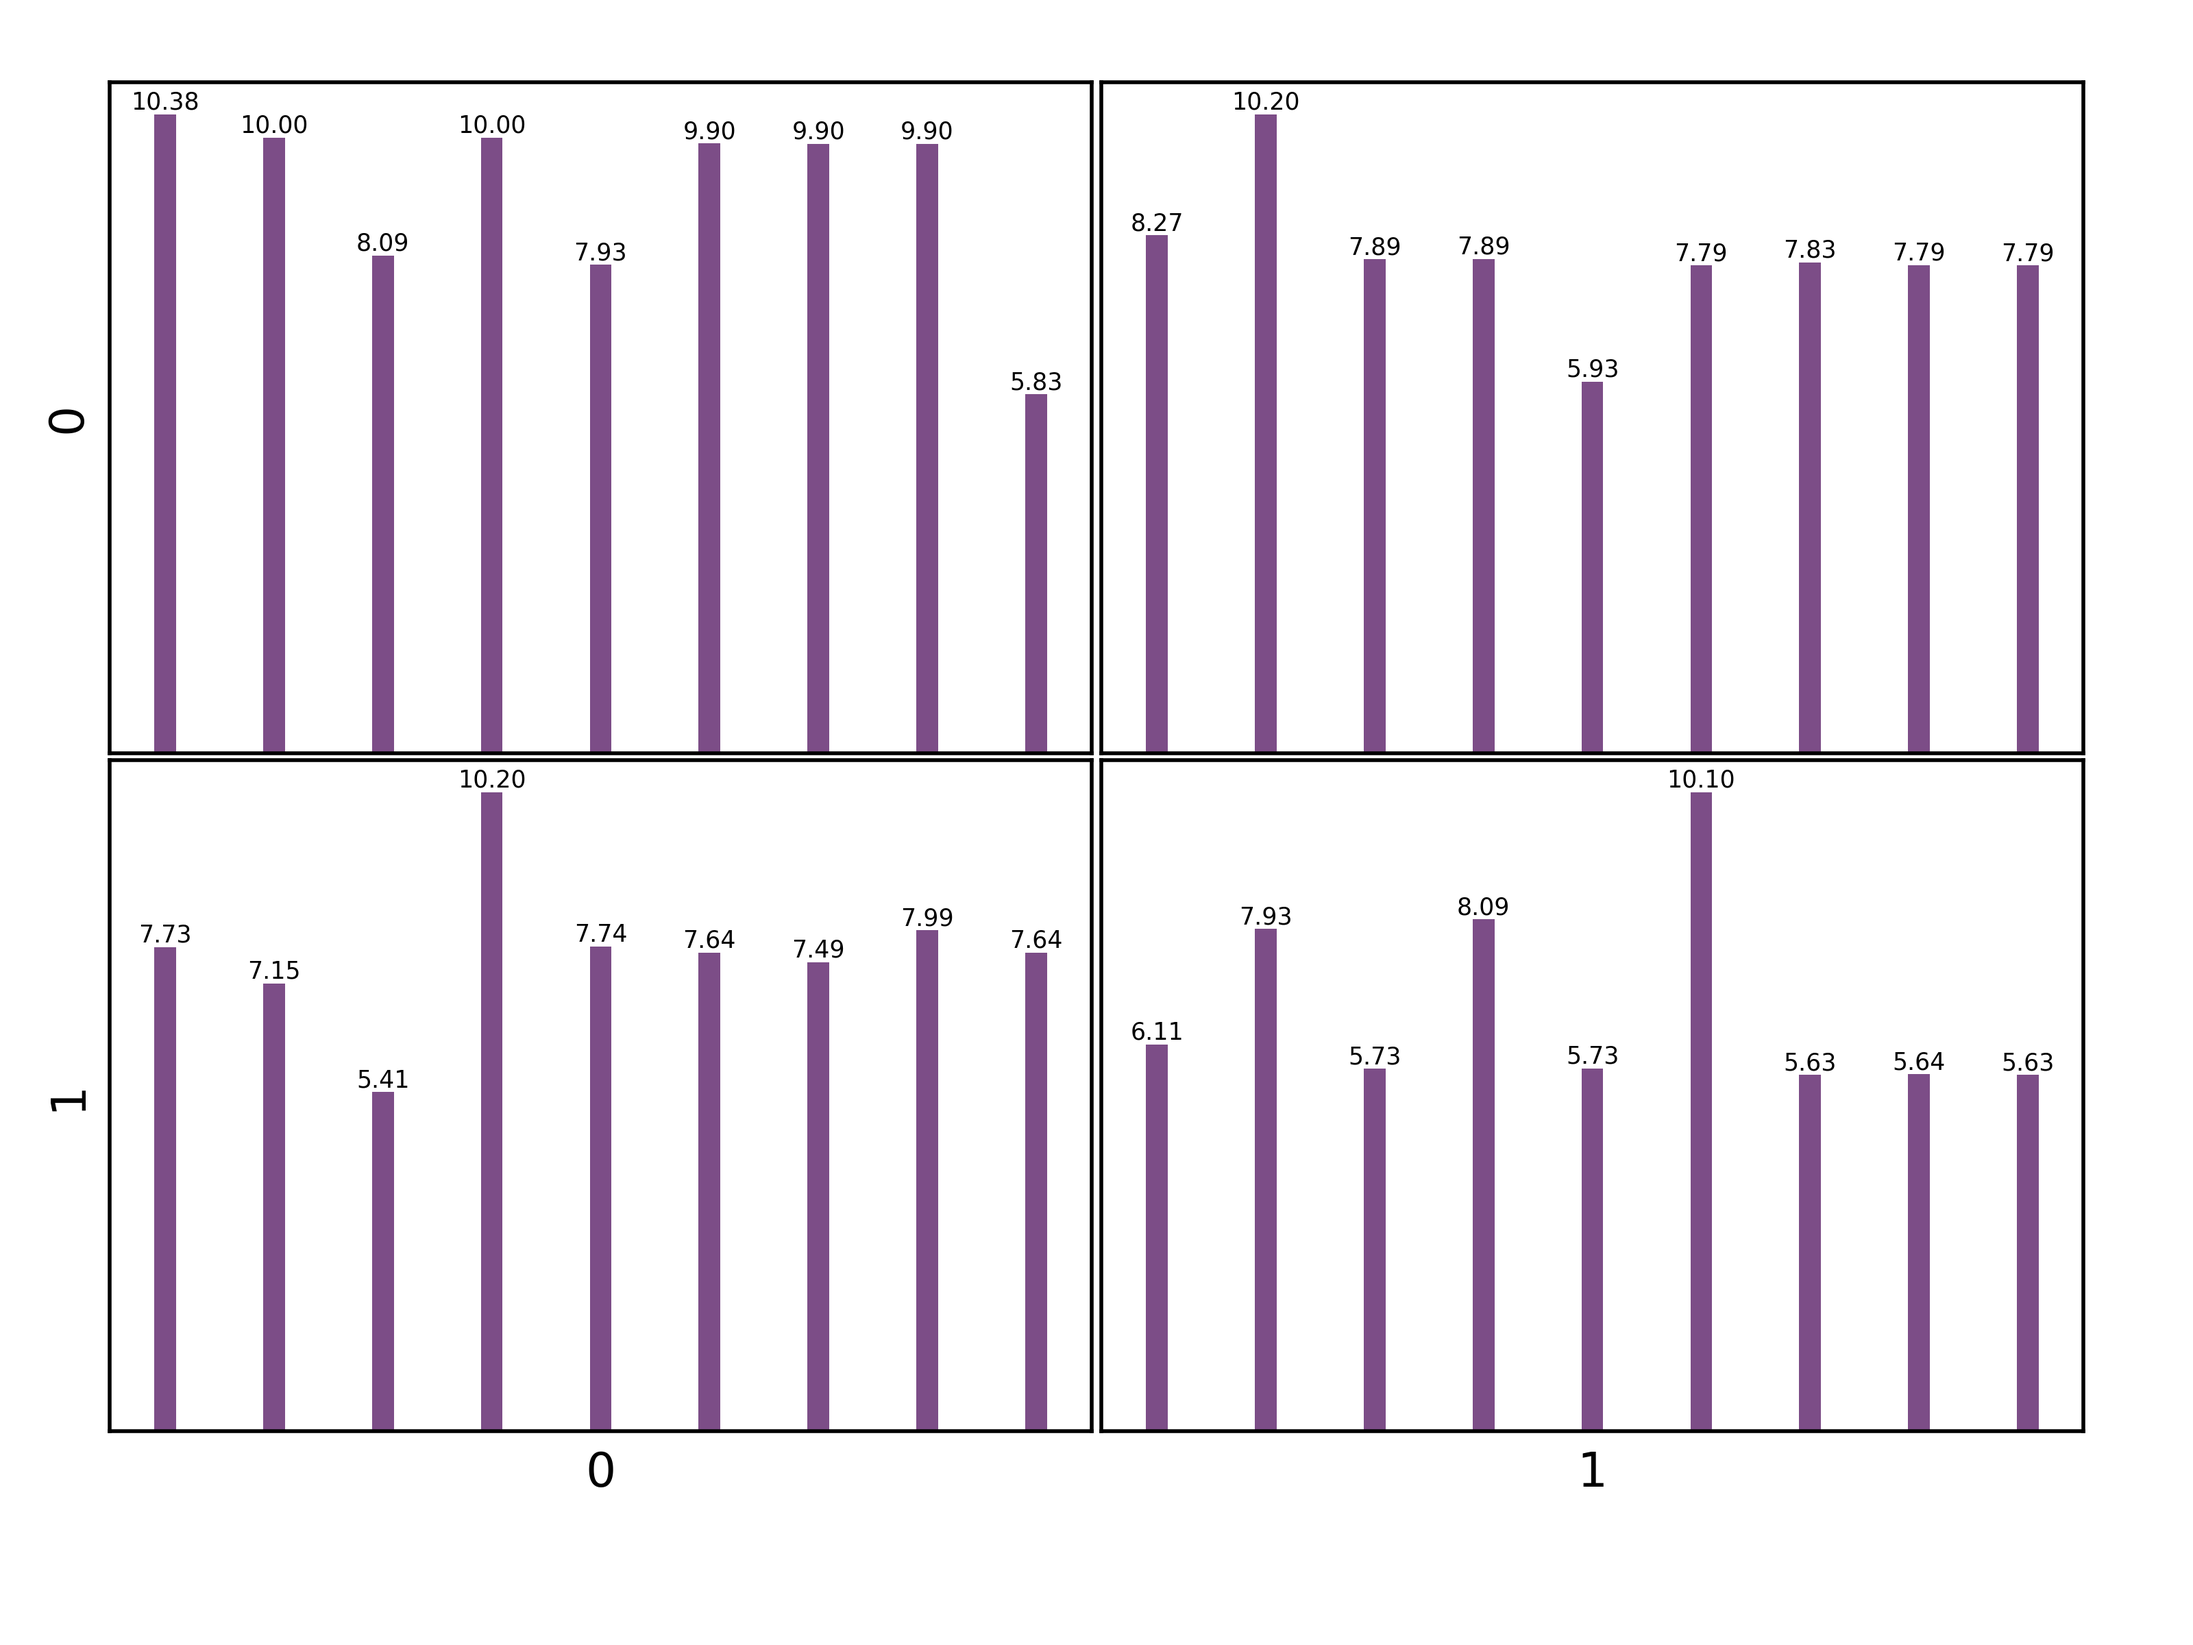
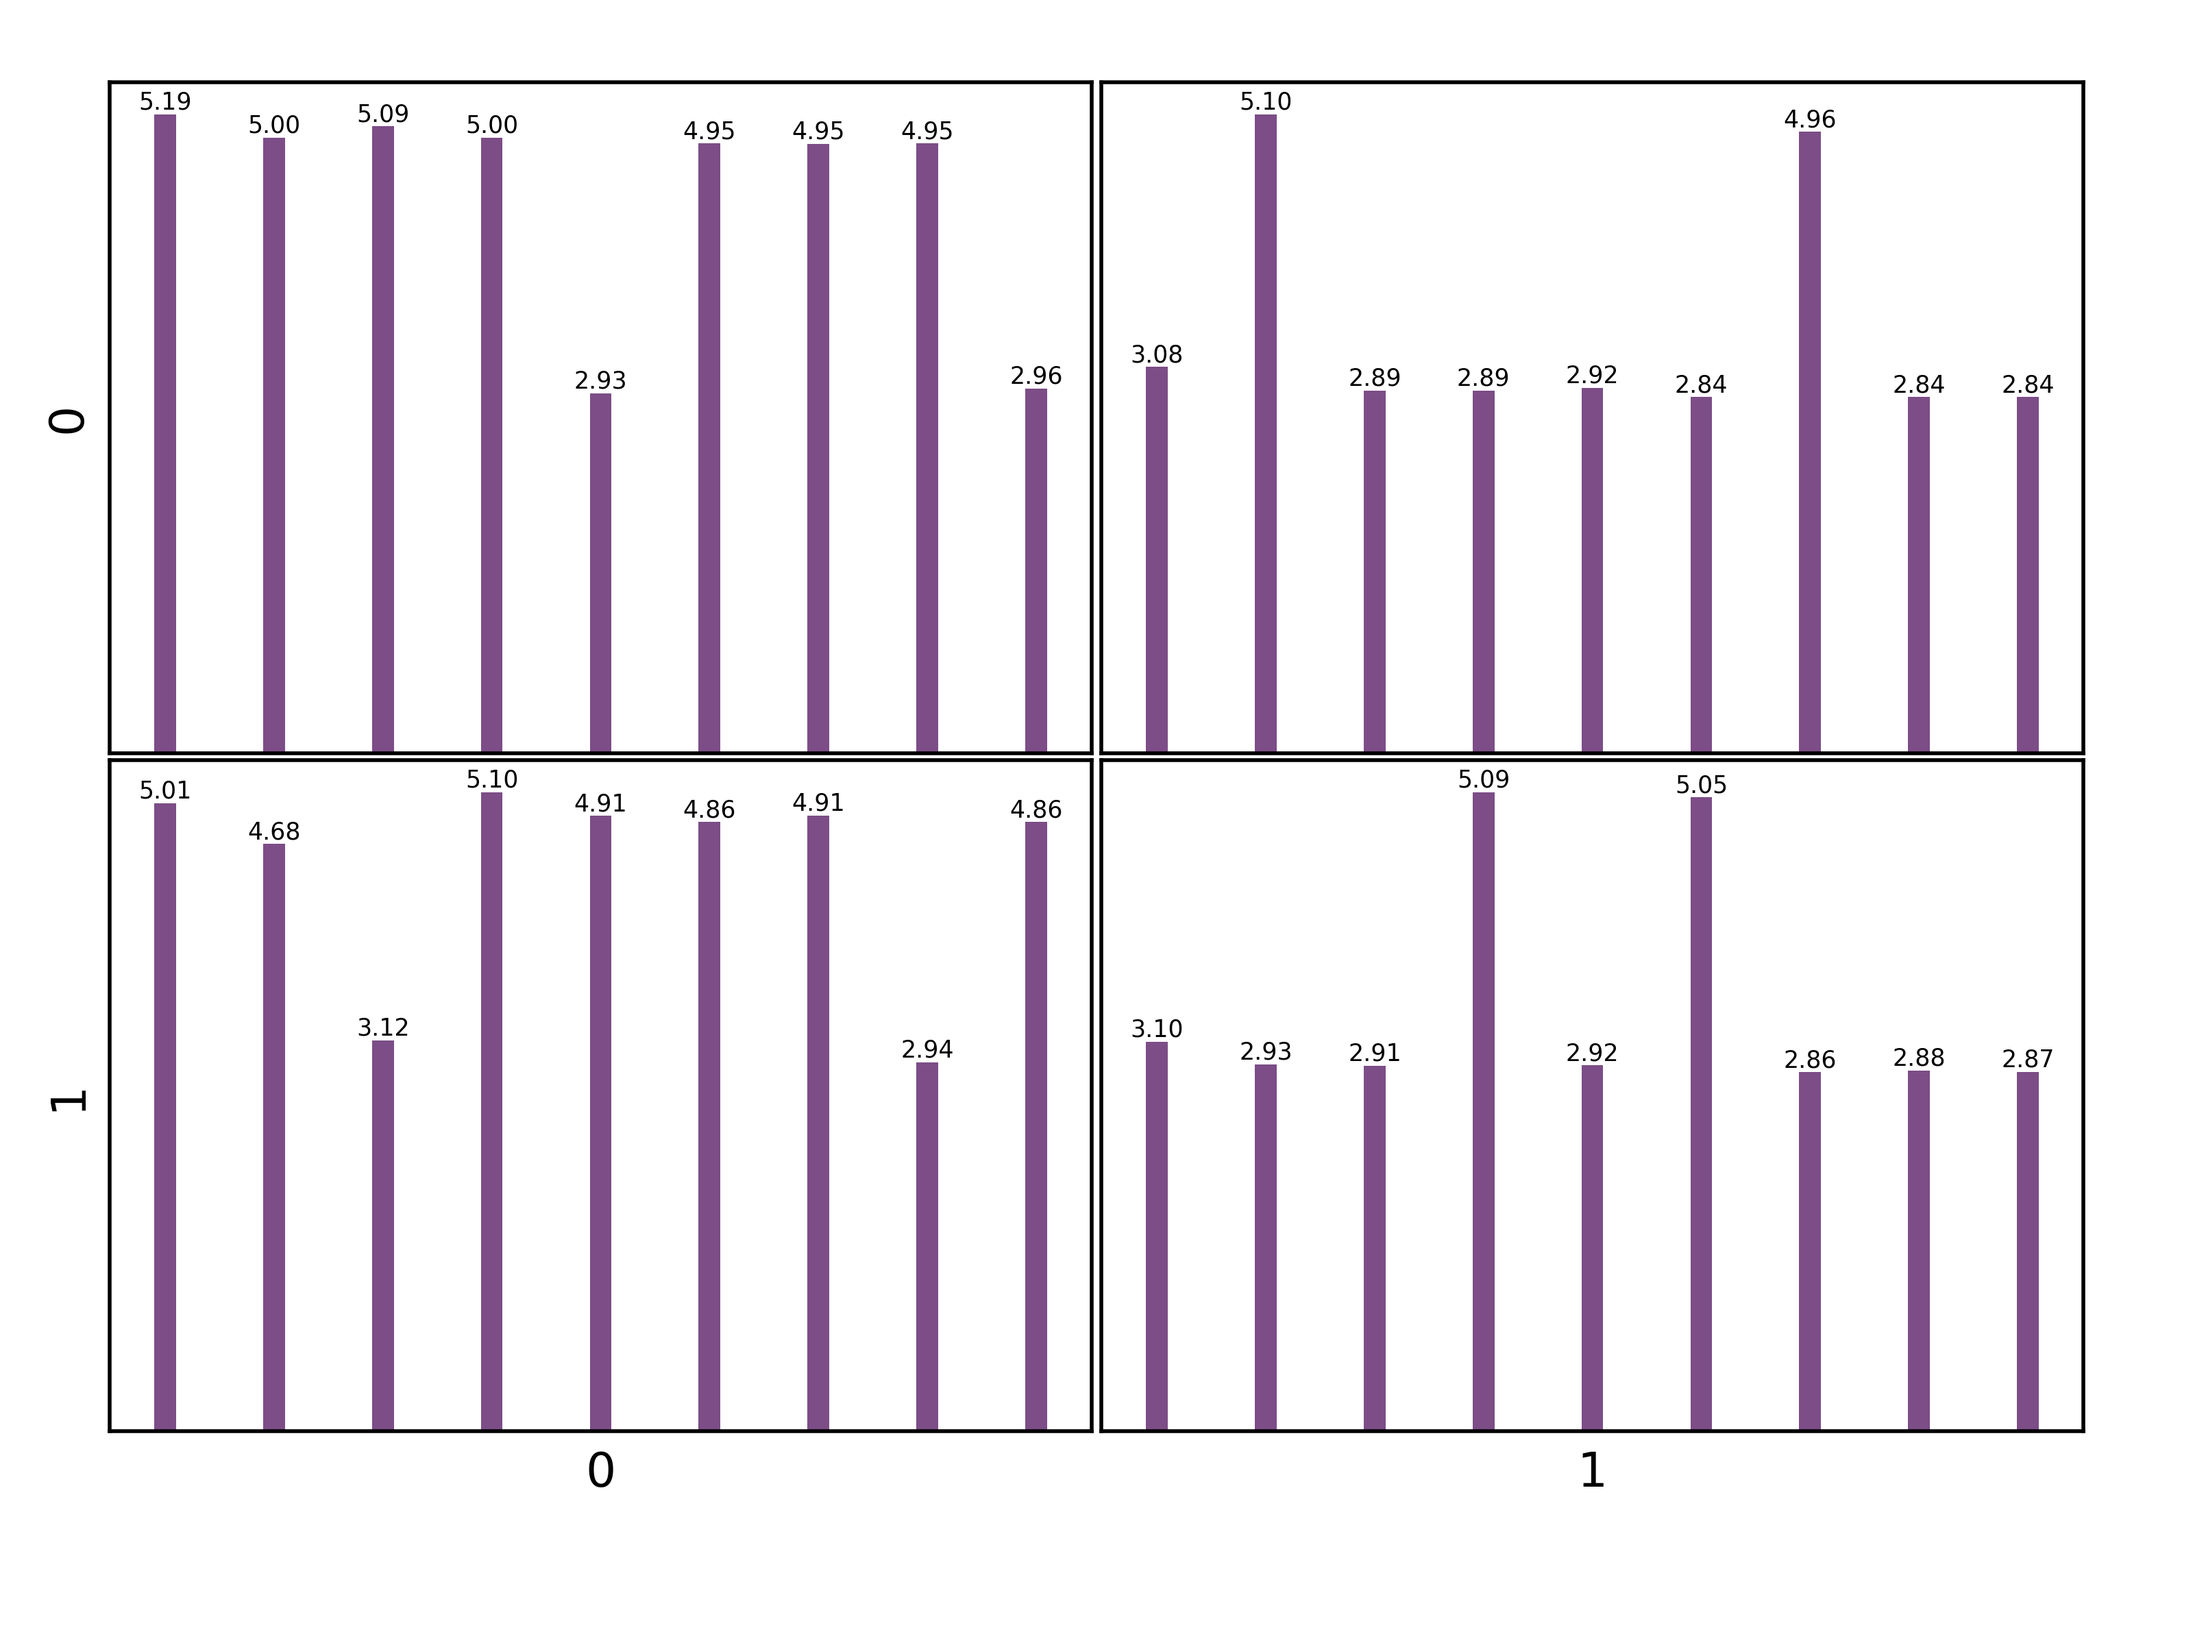
finishing touches

diff --git a/utils/plotting.py b/utils/plotting.py
@@ -161,6 +161,25 @@ def plot_agent_actions_2d_seperated(
         if plot:
             plt.show()
 
+
+def plot_summed_q_values(
+    states: list[list],
+    agent: AbstractAgent,
+    n_action,
+    n_policy,
+    bar_width=0.2,
+    save_path: str = None,
+    plot: bool = False,
+    objective_labels: list[str] | None = None,
+    should_plot: lambda state: bool = lambda state: True,
+):
+    """Plots a grid of bar charts showing the summed Q-values for each action in each state"""
+    if len(states) <= 0 or n_policy <= 0 or n_action <= 0:
+        return
+    if objective_labels is None:
+        objective_labels = [f"{i}" for i in range(n_policy)]
+    colors = plt.cm.viridis(np.linspace(0, 1, n_policy + 1))
+    xs = np.arange(n_action)
     fig, axes = plt.subplots(len(states), len(states[0]))
     if not hasattr(axes, "__len__"):
         axes = [axes]
@@ -187,6 +206,7 @@ def plot_agent_actions_2d_seperated(
         plt.savefig(f"{save_path}/summed_q_values.png", dpi=500)
     if plot:
         plt.show()
+    plt.close()
 
 
 def plot_agent_w_values(
@@ -242,3 +262,77 @@ def plot_agent_w_values(
         plt.savefig(f"{save_path}/w_values.png", dpi=500, bbox_inches="tight")
     if plot:
         plt.show()
+
+
+def plot_state_actions(
+    states: list[list],
+    agent: AbstractAgent,
+    n_policy,
+    save_path: str = None,
+    plot: bool = False,
+    action_labels: list[str] | None = None,
+    should_plot: lambda state: bool = lambda state: True,
+):
+    fig, axes = plt.subplots(len(states), len(states[0]))
+    if not hasattr(axes, "__len__"):
+        axes = [axes]
+    else:
+        axes = axes.flatten()
+    for y, row in enumerate(states):
+        for x, state in enumerate(row):
+            current_ax = axes[y * len(states[0]) + x]
+            current_ax.set_xticks([])
+            current_ax.set_yticks([])
+            if x == 0:
+                current_ax.set_ylabel(f"{y}")
+            if y == len(states) - 1:
+                current_ax.set_xlabel(f"{x}")
+            if should_plot(state):
+                action, _ = agent.get_action(state)
+                print(f"action: {action}")
+                current_ax.text(0.5, 0.5, f"{action_labels[action]}", ha="center", va="center", fontsize=8)
+
+    plt.subplots_adjust(left=0.05, right=0.95, top=0.95, bottom=0.13, wspace=0.01, hspace=0.01)
+    plt.savefig(f"{save_path}/selected_actions.png", dpi=500)
+    if plot:
+        plt.show()
+
+    plt.close()
+
+
+def plot_state_actions(
+    states: list[list],
+    agent: AbstractAgent,
+    n_actions,
+    save_path: str = None,
+    plot: bool = False,
+    action_labels: list[str] | None = None,
+    should_plot: lambda state: bool = lambda state: True,
+):
+    """Plots a grid of where the selected action is plotted for each state"""
+    if action_labels is None:
+        action_labels = [f"{i}" for i in range(n_actions)]
+    fig, axes = plt.subplots(len(states), len(states[0]))
+    if not hasattr(axes, "__len__"):
+        axes = [axes]
+    else:
+        axes = axes.flatten()
+    for y, row in enumerate(states):
+        for x, state in enumerate(row):
+            current_ax = axes[y * len(states[0]) + x]
+            current_ax.set_xticks([])
+            current_ax.set_yticks([])
+            if x == 0:
+                current_ax.set_ylabel(f"{y}")
+            if y == len(states) - 1:
+                current_ax.set_xlabel(f"{x}")
+            if should_plot(state):
+                action, _ = agent.get_action(state)
+                current_ax.text(0.5, 0.5, f"{action_labels[action]}", ha="center", va="center", fontsize=8)
+
+    plt.subplots_adjust(left=0.05, right=0.95, top=0.95, bottom=0.13, wspace=0.01, hspace=0.01)
+    plt.savefig(f"{save_path}/selected_actions.png", dpi=500)
+    if plot:
+        plt.show()
+
+    plt.close()

diff --git a/agents/democratic_dwn/DemocraticDWL.py b/agents/democratic_dwn/DemocraticDWL.py
@@ -4,6 +4,7 @@ from action_scalarization import ActionScalarization
 from agents.democratic_dwn.SelectedPolicy import SelectedPolicy
 from agents.dwn import DWL
 from exploration_strategy import ExplorationStrategy
+from exploration_strategy.utils import create_exploration_strategy
 
 
 class DemocraticDWL(DWL):
@@ -27,7 +28,8 @@ class DemocraticDWL(DWL):
         device=None,
         tau=0.001,
         w_tau=0.001,
-        walpha=0.001,
+        w_alpha=0.001,
+        per_epsilon=0.001,
         seed=404,
     ):
 
@@ -35,7 +37,8 @@ class DemocraticDWL(DWL):
             input_shape,
             num_actions=num_actions,
             num_policies=num_policies,
-            exploration_strategy=exploration_strategy,
+            exploration_strategy=create_exploration_strategy("greedy"),
+            w_exploration_strategy=create_exploration_strategy("greedy"),
             memory_size=memory_size,
             batch_size=batch_size,
             learning_rate=learning_rate,
@@ -47,11 +50,13 @@ class DemocraticDWL(DWL):
             device=device,
             tau=tau,
             w_tau=w_tau,
-            walpha=walpha,
+            w_alpha=w_alpha,
+            per_epsilon=per_epsilon,
             seed=seed,
         )
         self.scalarization = scalarization
         self.selected_policy = selected_policy
+        self.exploration_strategy = exploration_strategy
 
     def get_action_and_w_values(self, x, human_preference: np.ndarray | None = None) -> tuple[np.ndarray, np.ndarray, np.ndarray]:
         """Get the action nomination and the w-values for the given state
@@ -79,9 +84,9 @@ class DemocraticDWL(DWL):
 
     def get_action(self, x, human_preference: np.ndarray | None = None) -> tuple[int, dict]:
         """Get the action nomination for the given state"""
-        action_values, w_values = self.get_action_and_w_values(x, human_preference)
+        action_values, w_values, objective_action_values = self.get_action_and_w_values(x, human_preference)
         action_sel = self.exploration_strategy.get_action(action_values, x)
-        policy_sel = self.selected_policy.select_policy(action_values, w_values, action_sel)
+        policy_sel = self.selected_policy.select_policy(objective_action_values, action_values, w_values, action_sel)
         return action_sel, {"policies_sel": policy_sel, "w_values": w_values}
 
     def get_actions(self, x, human_preference: np.ndarray | None = None) -> np.ndarray:

diff --git a/plot_agent_actions.py b/plot_agent_actions.py
@@ -2,7 +2,7 @@ import os
 import torch
 from agents.utils import get_agent
 from exploration_strategy.utils import create_exploration_strategy
-from utils.plotting import plot_agent_actions_2d, plot_agent_actions_2d_seperated
+from utils.plotting import plot_agent_actions_2d, plot_agent_actions_2d_seperated, plot_state_actions, plot_summed_q_values
 
 import argparse
 import gym
@@ -24,6 +24,7 @@ parser.add_argument(
     help="model specific parameters not provided below e.g. --model_kwargs arg1=value1 arg2=value2",
 )
 parser.add_argument("--objective_labels", type=str, nargs="*", default=None, help="objective labels")
+parser.add_argument("--action_labels", type=str, nargs="*", default=None, help="action labels")
 parser.add_argument("--images_dir", type=str, default=" ./images", help="images directory")
 parser.add_argument("--plot", action="store_true", default=False, help="plot the results")
 args = parser.parse_args()
@@ -89,6 +90,26 @@ plot_agent_actions_2d_seperated(
     n_policy,
     save_path=f"{args.images_dir}",
     plot=args.plot,
+    should_plot=lambda state: env.unwrapped._is_valid_state((state[1], state[0])),
+)
+
+plot_summed_q_values(
+    states,
+    agent,
+    n_action,
+    n_policy,
+    save_path=f"{args.images_dir}",
+    plot=args.plot,
+    should_plot=lambda state: env.unwrapped._is_valid_state((state[1], state[0])),
+)
+
+plot_state_actions(
+    states,
+    agent,
+    n_action,
+    save_path=f"{args.images_dir}",
+    plot=args.plot,
+    action_labels=args.action_labels,
     should_plot=lambda state: env.unwrapped._is_valid_state((state[1], state[0])),
 )
 

diff --git a/agents/dwn/DWL.py b/agents/dwn/DWL.py
@@ -16,10 +16,10 @@ class DWL(AbstractAgent):
         input_shape,
         num_actions,
         num_policies,
-        batch_size=1024,
-        exploration_strategy: ExplorationStrategy = DecayEpsilonGreedy(epsilon=0.95, epsilon_decay=0.995, epsilon_min=0.1),
-        w_exploration_strategy: ExplorationStrategy = DecayEpsilonGreedy(epsilon=0.95, epsilon_decay=0.995, epsilon_min=0.1),
+        exploration_strategy: ExplorationStrategy | None,
+        w_exploration_strategy: ExplorationStrategy | None,
         memory_size=100000,
+        batch_size=1024,
         learning_rate=0.001,
         gamma=0.9,
         hidlyr_nodes=256,
@@ -149,7 +149,7 @@ class DWL(AbstractAgent):
                 agent.load_w_net(path + "W" + str(i) + ".pt")
             if os.path.exists(path + "exploration_strategy" + str(i) + ".json"):
                 agent.load_exploration_strategy(path + "exploration_strategy" + str(i) + ".json")
-        if os.path.exists(path + "w_exploration_strategy.json"):
+        if os.path.exists(path + "w_exploration_strategy.json") and self.w_exploration_strategy is not None:
             self.w_exploration_strategy.load(path + "w_exploration_strategy.json")
 
     def get_objective_info(self, x):

diff --git a/utils/__init__.py b/utils/__init__.py
@@ -1,5 +1,13 @@
 from .utils import extract_kwargs, kwargs_to_string, softmax
 from .argument_parser import build_parser
 from .run_env import run_env
-from .plotting import plot_agent_actions_2d, plot_agent_actions_2d_seperated, smooth, plot_over_time_multiple_subplots, plot_agent_w_values
+from .plotting import (
+    plot_agent_actions_2d,
+    plot_agent_actions_2d_seperated,
+    smooth,
+    plot_over_time_multiple_subplots,
+    plot_agent_w_values,
+    plot_summed_q_values,
+    plot_state_actions,
+)
 from .file_structure import generate_file_structure, images_dir, models_dir, videos_dir
